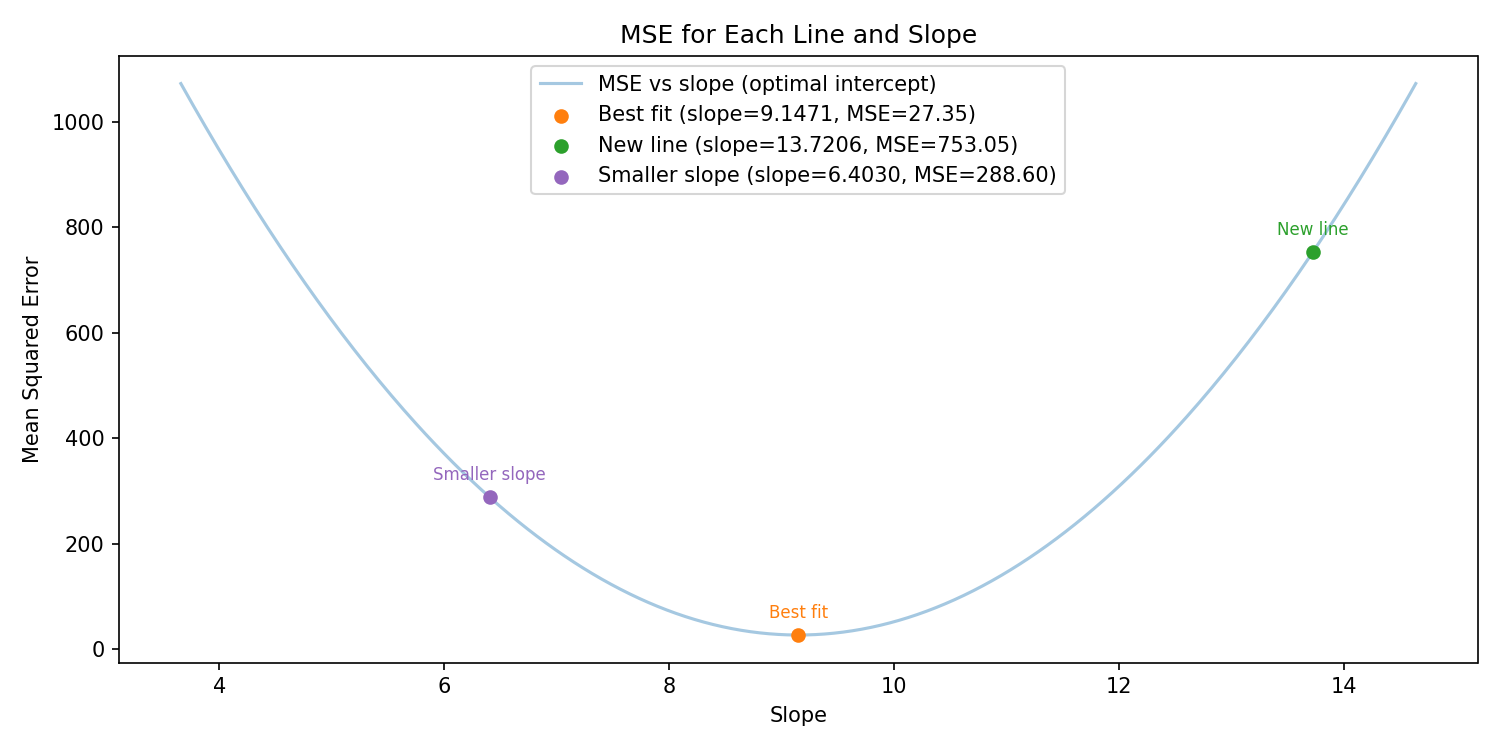
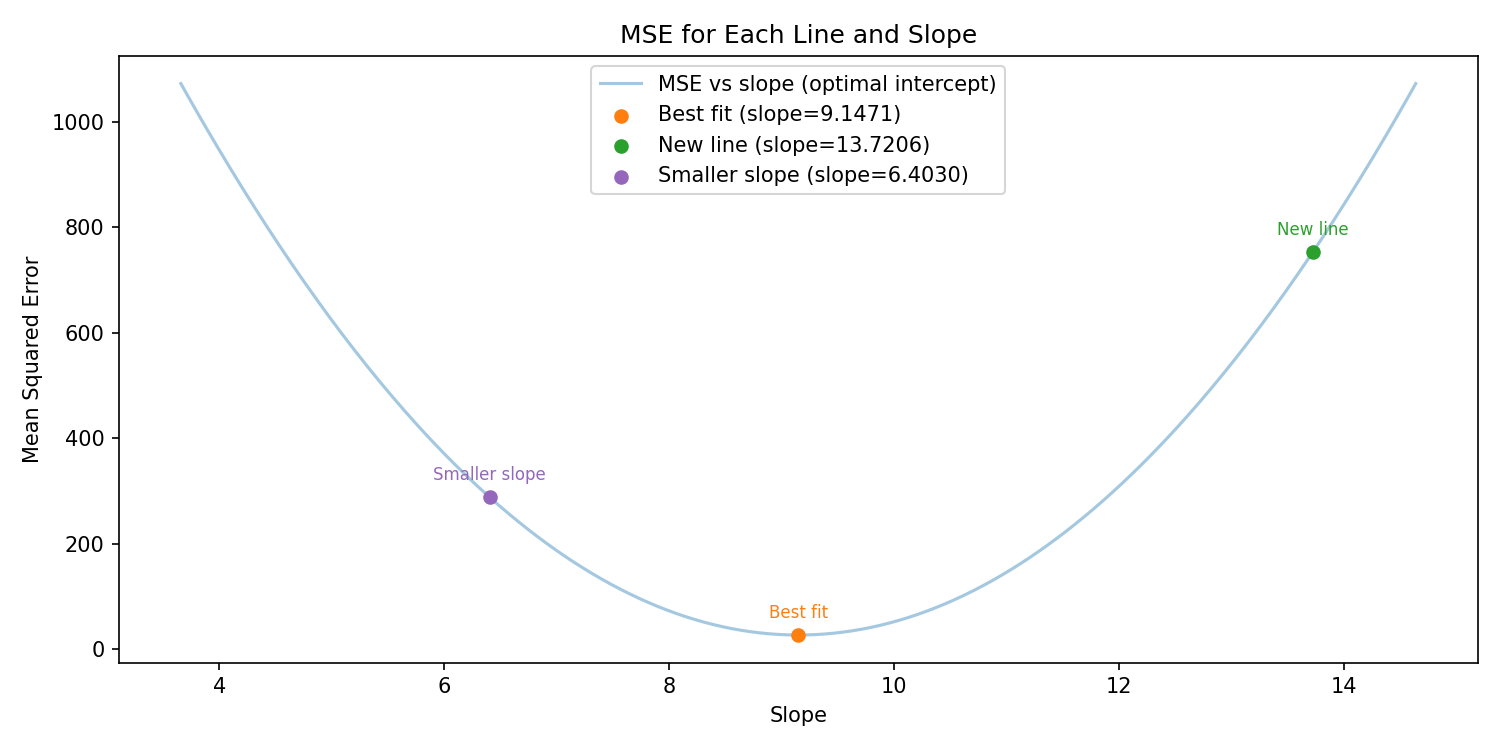
2025-11-04

Changed region(s): [[0.368, 0.092, 0.7053, 0.2453]]

diff --git a/year-housePrice.py b/year-housePrice.py
@@ -18,14 +18,10 @@ def plot_house_prices():
     # draw the data points as a scatter so they are not connected
     plt.scatter(years, prices, marker='o', color='tab:blue', s=35, label='Data')
 
-<<<<<<< HEAD
     # best-fit trend line (for comparison) — show only this line (no illustrative lines)
     # To keep the plotted line exactly the same but show a small intercept value
     # in the label, express the equation around a reference year x0 (use the mean year).
     # show slope and a small intercept-like value (y0 = y at mean year) in the label
-=======
-
->>>>>>> 172255f792013a29c4d985c79c42d70cbf2bd1f3
     x0 = int(round(years.mean()))
     y0 = slope * x0 + intercept  # value of best-fit at mean year
     plt.plot(years, trend_line, color='tab:orange', linewidth=2,
@@ -95,11 +91,7 @@ def plot_house_prices():
     # Always plot all three lines as points, even if their MSEs overlap
     for m, b, name, color, style in lines:
         mse = np.mean((y - (m * x + b)) ** 2)
-<<<<<<< HEAD
-        plt.scatter(m, mse, color=color, label=f"{name} (slope={m:.4f}, MSE={mse:.2f})", zorder=5)
-=======
         plt.scatter(m, mse, color=color, label=f"{name} (slope={m:.4f})", zorder=5)
->>>>>>> 172255f792013a29c4d985c79c42d70cbf2bd1f3
         plt.annotate(name, (m, mse), textcoords="offset points", xytext=(0,8), ha='center', fontsize=8, color=color)
     plt.xlabel('Slope')
     plt.ylabel('Mean Squared Error')
@@ -116,7 +108,6 @@ def plot_house_prices():
     x_mean = x.mean()
     y_mean = y.mean()
 
-<<<<<<< HEAD
     # Use the original intercepts from our first plot to show their true MSE values
     # (This is correct, but let's add a debug print to confirm values)
     print(f"Best fit intercept: {intercept:.4f}, New line intercept: {intercept_new:.4f}, Smaller slope intercept: {intercept_small:.4f}")
@@ -124,9 +115,6 @@ def plot_house_prices():
     print(f"Best fit line: y = {slope:.4f}x + {intercept:.4f}")
     print(f"New line: y = {slope_new:.4f}x + {intercept_new:.4f}")
     print(f"Smaller slope line: y = {slope_small:.4f}x + {intercept_small:.4f}")
-=======
-
->>>>>>> 172255f792013a29c4d985c79c42d70cbf2bd1f3
 
     # For the 3D plot, use the same intercept (best-fit) for all lines so only the best-fit line is at the minimum
     lines_3d = [
@@ -169,11 +157,7 @@ def plot_house_prices():
         preds = m * x + b
         mse_val = np.mean((y - preds) ** 2)
         print(f"{name}: slope={m:.4f}, intercept={b:.4f}, MSE={mse_val:.4f}")
-<<<<<<< HEAD
-        ax.scatter(m, b, mse_val, color=color, s=100, marker='o', label=f"{name} (slope={m:.4f}, MSE={mse_val:.2f})", zorder=10)
-=======
         ax.scatter(m, b, mse_val, color=color, s=100, marker='o', label=f"{name} (slope={m:.4f})", zorder=10)
->>>>>>> 172255f792013a29c4d985c79c42d70cbf2bd1f3
     ax.legend()
     plt.tight_layout()
     mse3d_path = os.path.join(out_dir, 'mse_lines_3d.png')
